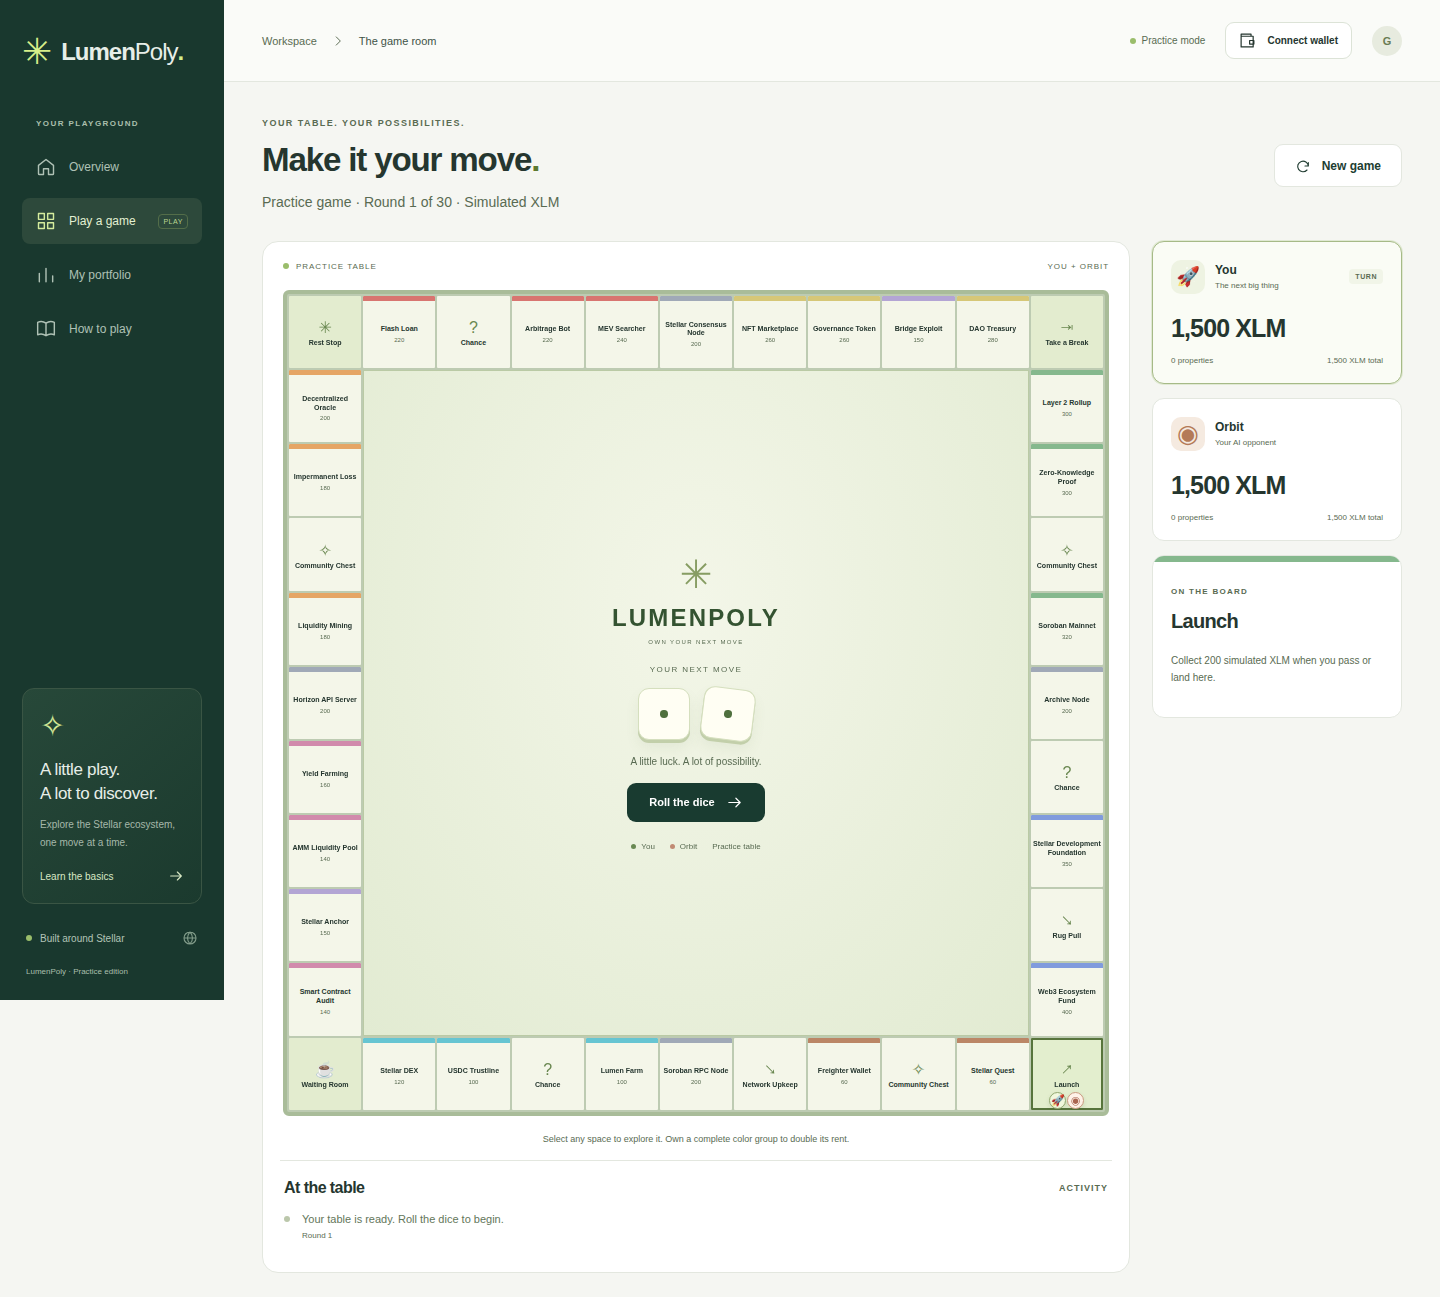
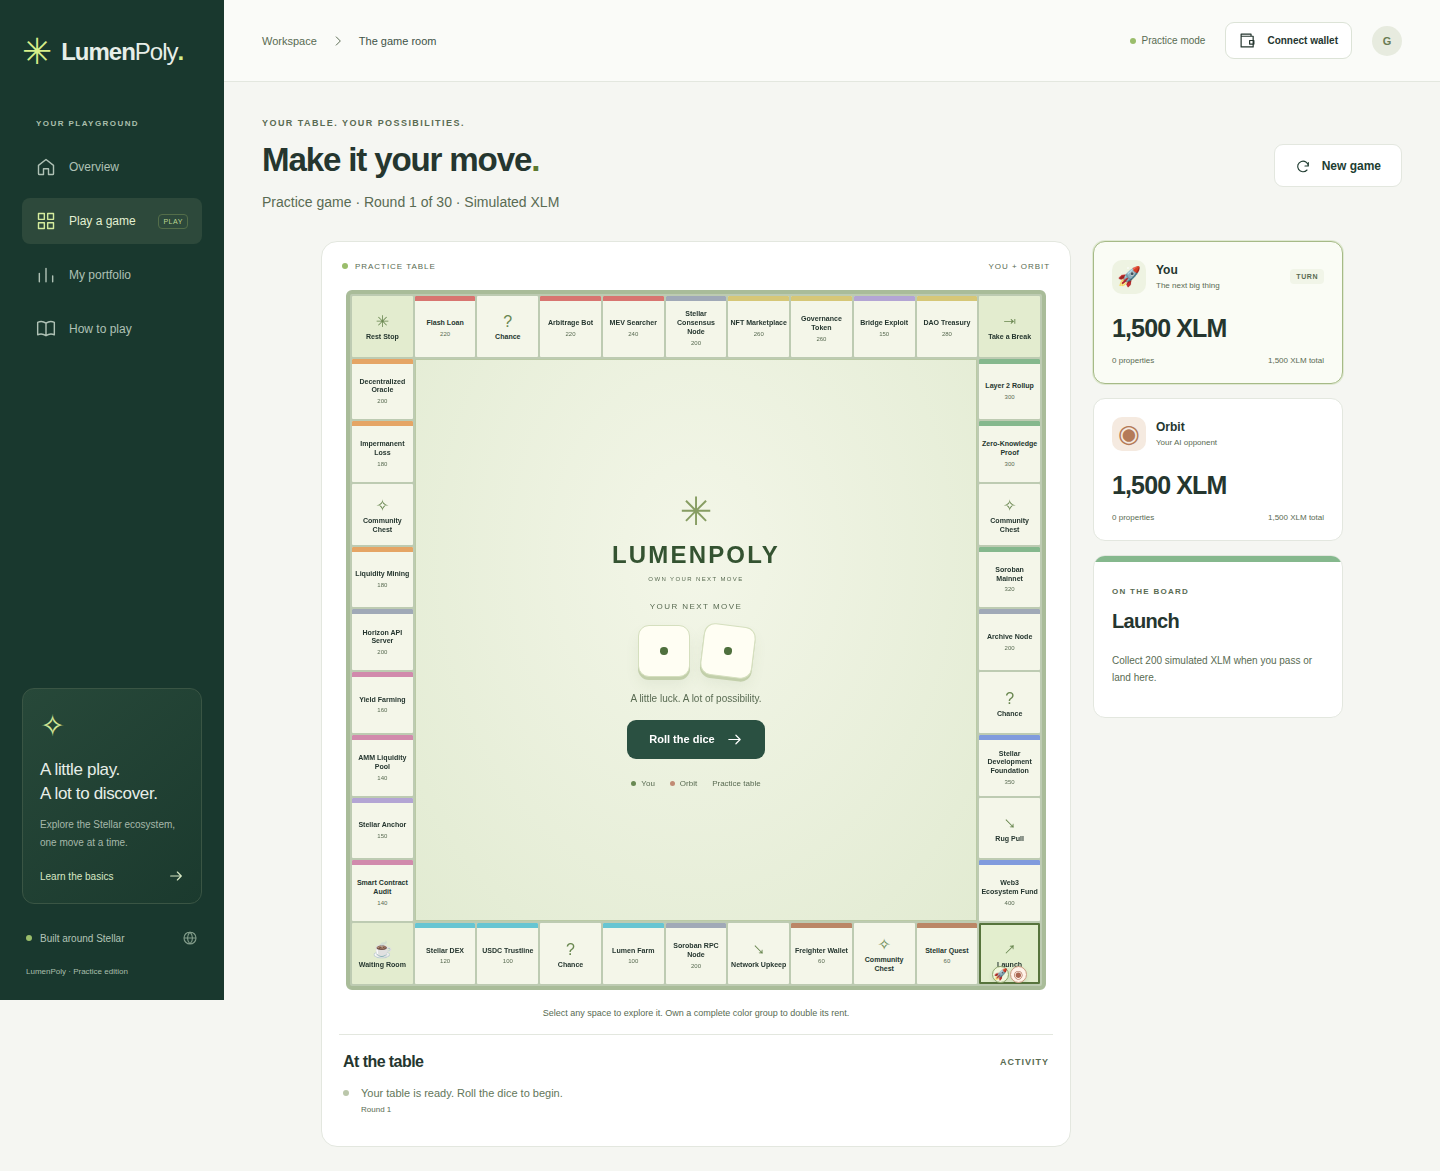
fix(board): fit the complete desktop table within the viewport

diff --git a/web/src/styles/board-fit.css b/web/src/styles/board-fit.css
@@ -1,0 +1,70 @@
+/* Reserve space for the workspace header, game title, and board heading. */
+@media (min-width: 701px) {
+  .game-layout {
+    max-width: calc(100dvh + 22px);
+    margin-inline: auto;
+    align-items: start;
+  }
+  .game-board {
+    width: min(100%, max(240px, calc(100dvh - 300px)));
+    min-width: 0;
+    margin-inline: auto;
+    container-type: inline-size;
+  }
+}
+/* Keep player details beside the board instead of consuming its height budget. */
+@media (min-width: 701px) and (max-width: 1200px) {
+  .game-layout {
+    grid-template-columns: minmax(0, 1fr) 200px;
+    gap: 16px;
+  }
+  .game-details {
+    display: flex;
+    grid-row: auto;
+  }
+}
+/* Compact the center when the viewport leaves less room for the table. */
+@container (max-width: 520px) {
+  .board-center {
+    min-height: 0;
+    gap: 12px;
+    padding: 10px;
+  }
+  .board-brand > span,
+  .board-brand small,
+  .board-legend {
+    display: none;
+  }
+  .board-brand strong {
+    font-size: 19px;
+  }
+  .turn-controls {
+    gap: 10px;
+  }
+  .turn-label {
+    display: none;
+  }
+  .die {
+    width: 42px;
+    height: 42px;
+    padding: 8px;
+    gap: 3px;
+  }
+  .turn-announcement {
+    font-size: 9px;
+  }
+}
+@container (max-width: 360px) {
+  .board-brand {
+    display: none;
+  }
+  .board-tile {
+    padding-top: 6px;
+  }
+  .tile-name {
+    font-size: 6px;
+  }
+  .tile-price {
+    display: none;
+  }
+}

diff --git a/web/src/index.css b/web/src/index.css
@@ -9,4 +9,5 @@
 @import './styles/activity-results.css';
 @import './styles/learning-portfolio.css';
 @import './styles/responsive.css';
+@import './styles/board-fit.css';
 @import './styles/accessibility.css';
